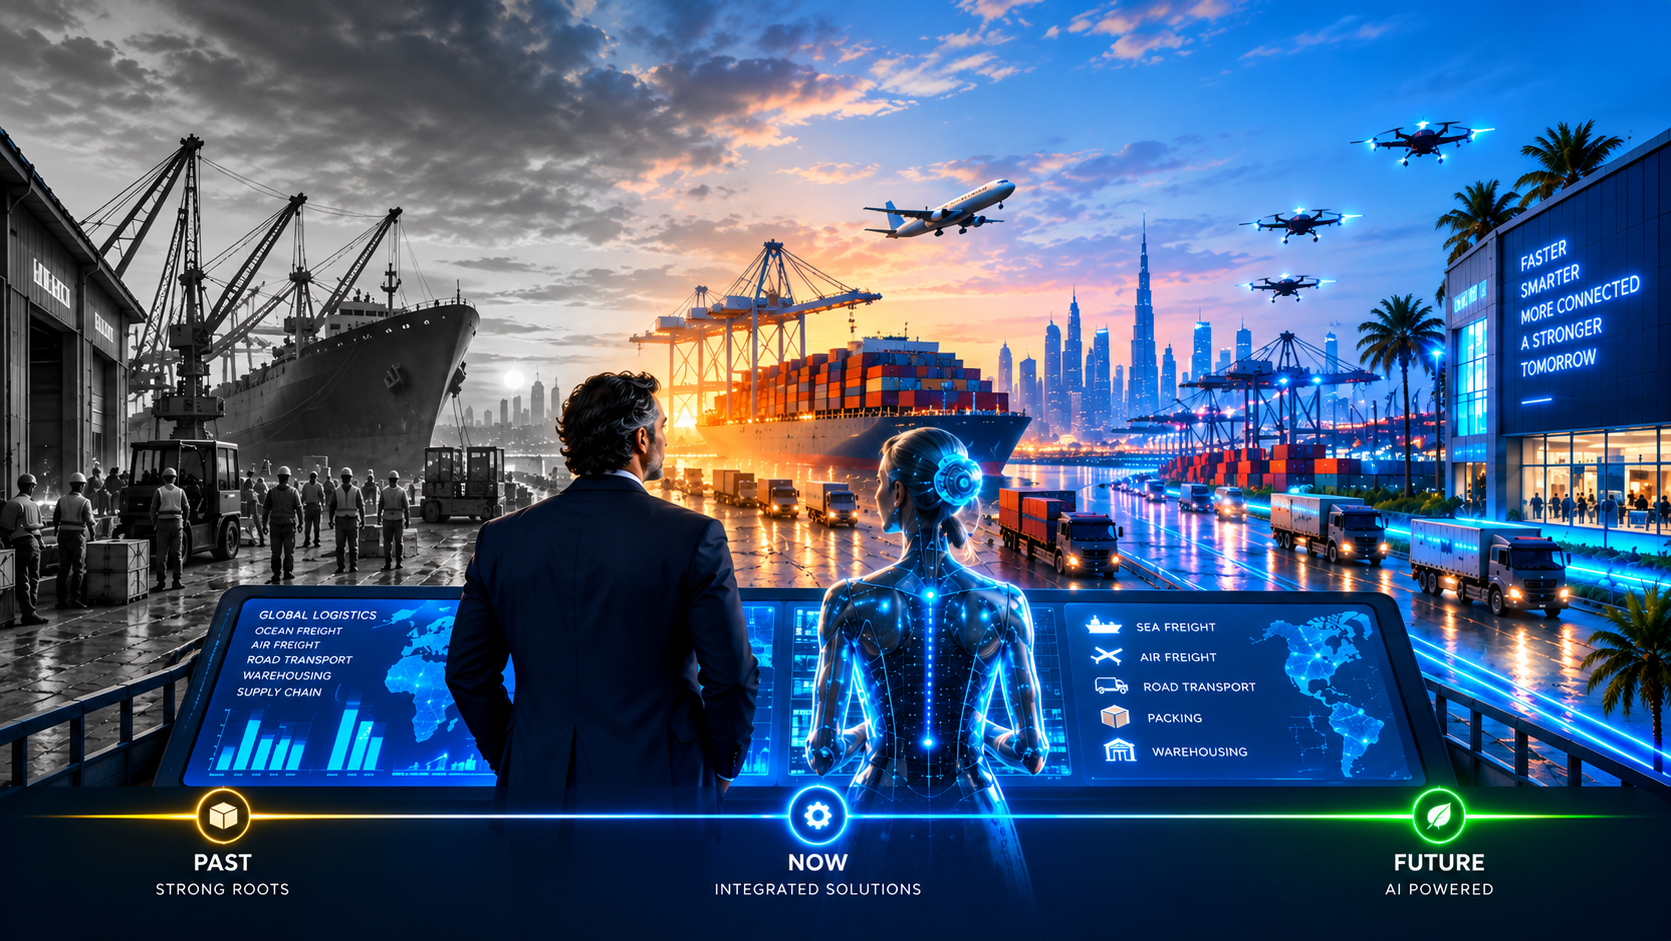
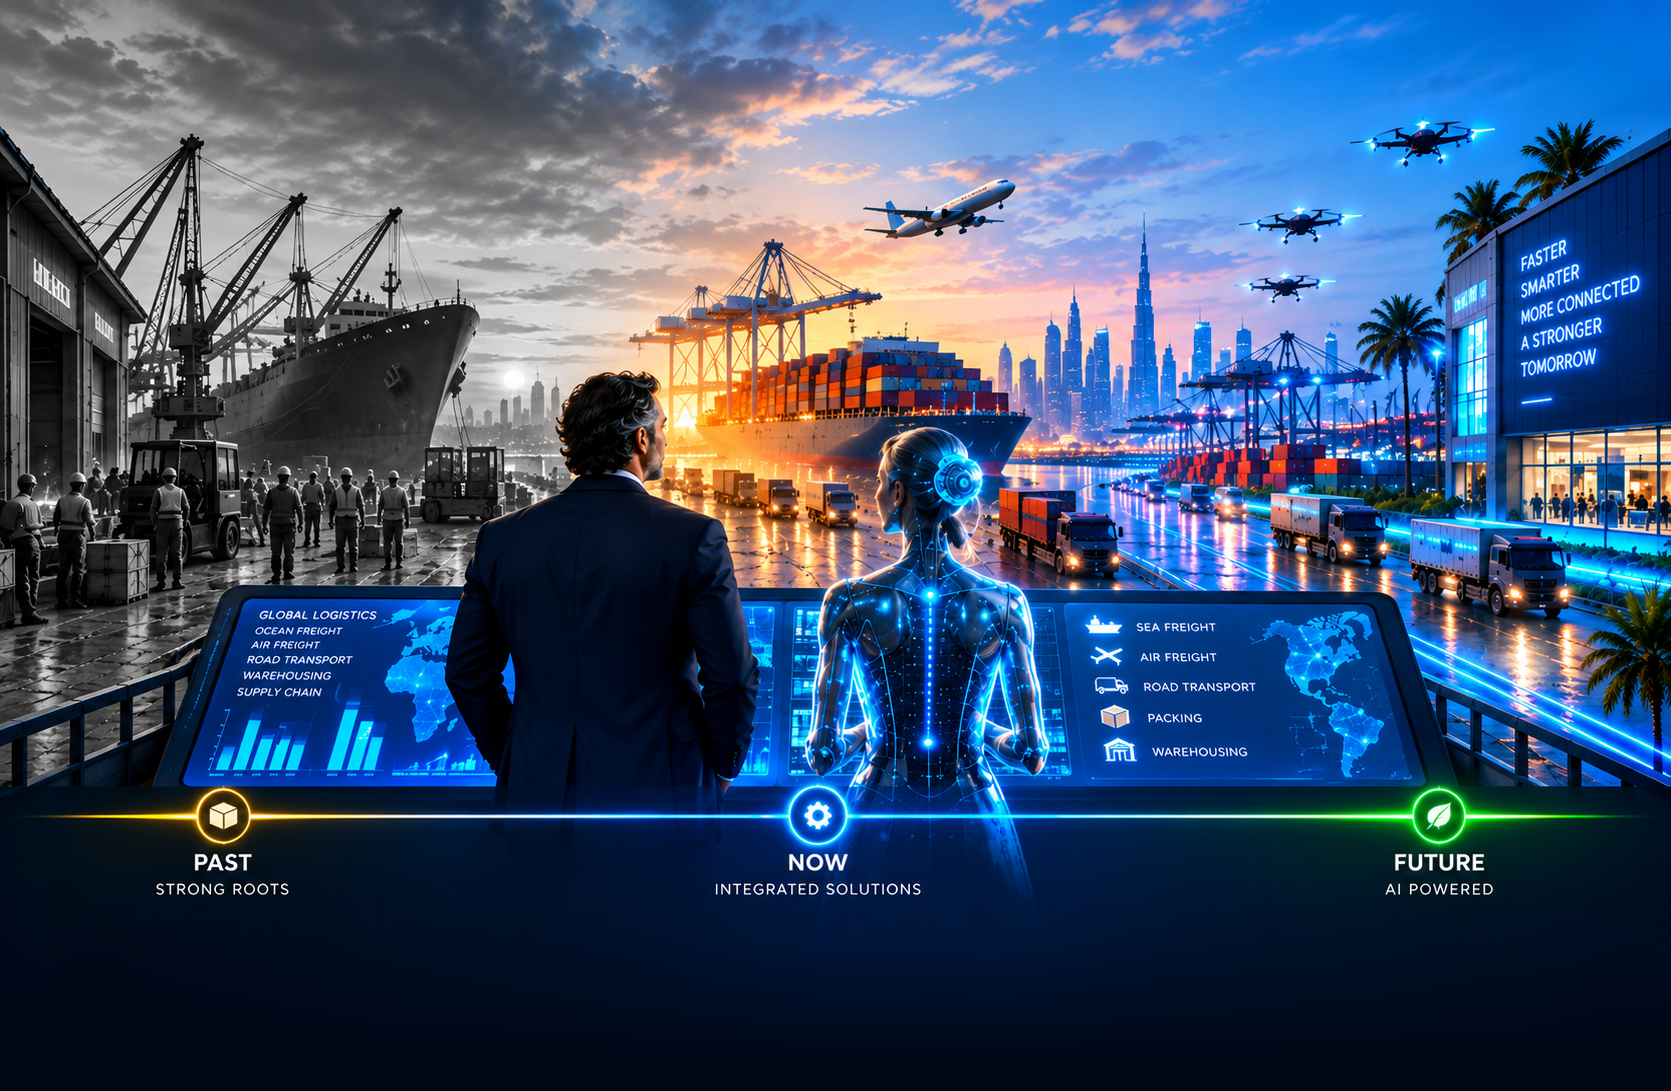
Fix About Us hero image responsiveness and vertical cropping; update page hero assets

diff --git a/Lotka/wwwroot/css/site.css b/Lotka/wwwroot/css/site.css
@@ -267,28 +267,43 @@ body.lotka-dark-theme {
 }
 
 /* ══════════════════════════════════════════════
-   ABOUT US — Full-Width Edge-to-Edge (Same pattern as other pages)
+   ABOUT US — Responsive Hero Display (Full uncropped image with bottom timeline)
    ══════════════════════════════════════════════ */
 .lotka-about-hero-section {
     position: relative;
     width: 100%;
     height: 100%;
+    max-width: 1600px;
+    margin: 0 auto;
     background-color: #0a2246;
     overflow: hidden;
+    display: flex;
+    align-items: center;
+    justify-content: center;
     flex: 1 1 auto;
 }
+.lotka-about-hero-section .about-hero-container,
 .lotka-about-hero-section .fullwidth-image-wrapper {
-    position: absolute;
-    inset: 0;
+    position: relative;
     width: 100%;
     height: 100%;
+    max-height: calc(100vh - var(--header-h) - var(--dock-h));
+    max-width: calc((100vh - var(--header-h) - var(--dock-h)) * 1.7768);
+    aspect-ratio: 1672 / 941;
+    display: flex;
+    align-items: center;
+    justify-content: center;
+    margin: 0 auto;
 }
+.lotka-about-hero-section .about-hero-img,
 .lotka-about-hero-section .fullwidth-hero-img {
     width: 100%;
-    height: 100%;
+    height: auto;
+    max-width: 100%;
+    max-height: 100%;
     display: block;
-    object-fit: cover;
-    object-position: center 65%;
+    object-fit: contain;
+    object-position: center bottom;
     filter: contrast(1.04) saturate(1.06) brightness(1.02);
     image-rendering: -webkit-optimize-contrast;
 }
@@ -387,8 +402,9 @@ body.lotka-dark-theme {
 
 /* Mobile */
 @media (max-width: 767.98px) {
+    .lotka-about-hero-section .about-hero-img,
     .lotka-about-hero-section .fullwidth-hero-img {
-        object-position: center center;
+        object-position: center bottom;
     }
     .about-title-overlay { top: 3%; }
     .about-title-overlay h2 { font-size: 1.15rem; }
@@ -1005,4 +1021,225 @@ body.lotka-dark-theme {
     .faq-title-right .about-subtitle {
         font-size: 0.65rem;
     }
+}
+
+
+/* ==========================================
+   LOTKA WHY HERO
+   Responsive: Desktop, Tablet and Mobile
+   ========================================== */
+
+.lotka-why-hero {
+    width: 100%;
+    overflow: hidden;
+    background: #061a3a;
+    color: #fff;
+}
+
+.lotka-why-hero__inner {
+    display: grid;
+    grid-template-columns: 1fr 1fr;
+    align-items: stretch;
+    width: 100%;
+    min-height: 520px;
+}
+
+/* Image column */
+.lotka-why-hero__image {
+    position: relative;
+    min-width: 0;
+    min-height: 520px;
+    overflow: hidden;
+}
+
+.lotka-why-hero__image img {
+    display: block;
+    width: 100%;
+    height: 100%;
+    min-height: 520px;
+    object-fit: cover;
+    object-position: center;
+}
+
+/* Subtle blend between image and content */
+.lotka-why-hero__image::after {
+    content: "";
+    position: absolute;
+    inset: 0;
+    pointer-events: none;
+    background: linear-gradient(
+        90deg,
+        transparent 65%,
+        rgba(6, 26, 58, 0.45) 100%
+    );
+}
+
+/* Text column */
+.lotka-why-hero__content {
+    display: flex;
+    align-items: center;
+    justify-content: flex-start;
+    min-width: 0;
+    padding: clamp(32px, 5vw, 80px);
+    background: #061a3a;
+}
+
+.lotka-why-hero__content .why-clarity-panel {
+    width: 100%;
+    max-width: 500px;
+}
+
+.lotka-why-hero__eyebrow {
+    margin-bottom: 16px;
+    font-size: 0.85rem;
+    font-weight: 700;
+    letter-spacing: 2px;
+    color: #c5d8ef;
+}
+
+.lotka-why-hero__content h1 {
+    margin: 0 0 24px;
+    max-width: 540px;
+    font-size: clamp(2rem, 3.5vw, 3.5rem);
+    font-weight: 750;
+    line-height: 1.12;
+    letter-spacing: -0.8px;
+    overflow-wrap: break-word;
+}
+
+.lotka-why-hero__lead {
+    margin: 0 0 14px;
+    font-size: clamp(1.15rem, 1.7vw, 1.5rem);
+    line-height: 1.4;
+    font-weight: 600;
+}
+
+.lotka-why-hero__description {
+    max-width: 470px;
+    margin: 0;
+    color: #d0dbea;
+    font-size: 1rem;
+    line-height: 1.8;
+}
+
+/* Large desktop */
+@media (min-width: 1440px) {
+    .lotka-why-hero__inner {
+        min-height: 620px;
+    }
+
+    .lotka-why-hero__image,
+    .lotka-why-hero__image img {
+        min-height: 620px;
+    }
+
+    .lotka-why-hero__content {
+        padding: 72px;
+    }
+}
+
+/* Tablet */
+@media (min-width: 768px) and (max-width: 1024px) {
+    .lotka-why-hero__inner {
+        grid-template-columns: 0.9fr 1.1fr;
+        min-height: 430px;
+    }
+
+    .lotka-why-hero__image,
+    .lotka-why-hero__image img {
+        min-height: 430px;
+    }
+
+    .lotka-why-hero__content {
+        padding: 28px;
+    }
+
+    .lotka-why-hero__content h1 {
+        font-size: clamp(1.8rem, 3.2vw, 2.5rem);
+    }
+
+    .lotka-why-hero__description {
+        font-size: 0.95rem;
+        line-height: 1.7;
+    }
+}
+
+/* Mobile */
+@media (max-width: 767.98px) {
+    .lotka-why-hero__inner {
+        grid-template-columns: minmax(0, 1fr);
+        min-height: auto;
+    }
+
+    .lotka-why-hero__image {
+        min-height: 0;
+        height: clamp(210px, 62vw, 340px);
+    }
+
+    .lotka-why-hero__image img {
+        width: 100%;
+        height: 100%;
+        min-height: 0;
+        object-fit: cover;
+        object-position: center;
+    }
+
+    .lotka-why-hero__image::after {
+        background: linear-gradient(
+            180deg,
+            transparent 65%,
+            rgba(6, 26, 58, 0.25) 100%
+        );
+    }
+
+    .lotka-why-hero__content {
+        padding: 28px 22px 36px;
+    }
+
+    .lotka-why-hero__content .why-clarity-panel {
+        max-width: 100%;
+    }
+
+    .lotka-why-hero__eyebrow {
+        margin-bottom: 12px;
+        font-size: 0.78rem;
+    }
+
+    .lotka-why-hero__content h1 {
+        max-width: 420px;
+        margin-bottom: 18px;
+        font-size: clamp(1.8rem, 7vw, 2.3rem);
+        line-height: 1.15;
+    }
+
+    .lotka-why-hero__lead {
+        font-size: 1.15rem;
+    }
+
+    .lotka-why-hero__description {
+        font-size: 0.95rem;
+        line-height: 1.7;
+    }
+}
+
+/* Small phones */
+@media (max-width: 380px) {
+    .lotka-why-hero__image {
+        height: 220px;
+    }
+
+    .lotka-why-hero__content {
+        padding: 24px 18px 30px;
+    }
+
+    .lotka-why-hero__content h1 {
+        font-size: 1.75rem;
+    }
+}
+
+
+@media (min-width: 992px) {
+    .contact-hero-wrap { padding-right: 16px !important; }
+    .contact-skyline-panel { margin-left: auto; text-align: left; font-size: 16px !important; }
+    .contact-skyline-panel .company-title { font-size: 24px !important; }
 }
